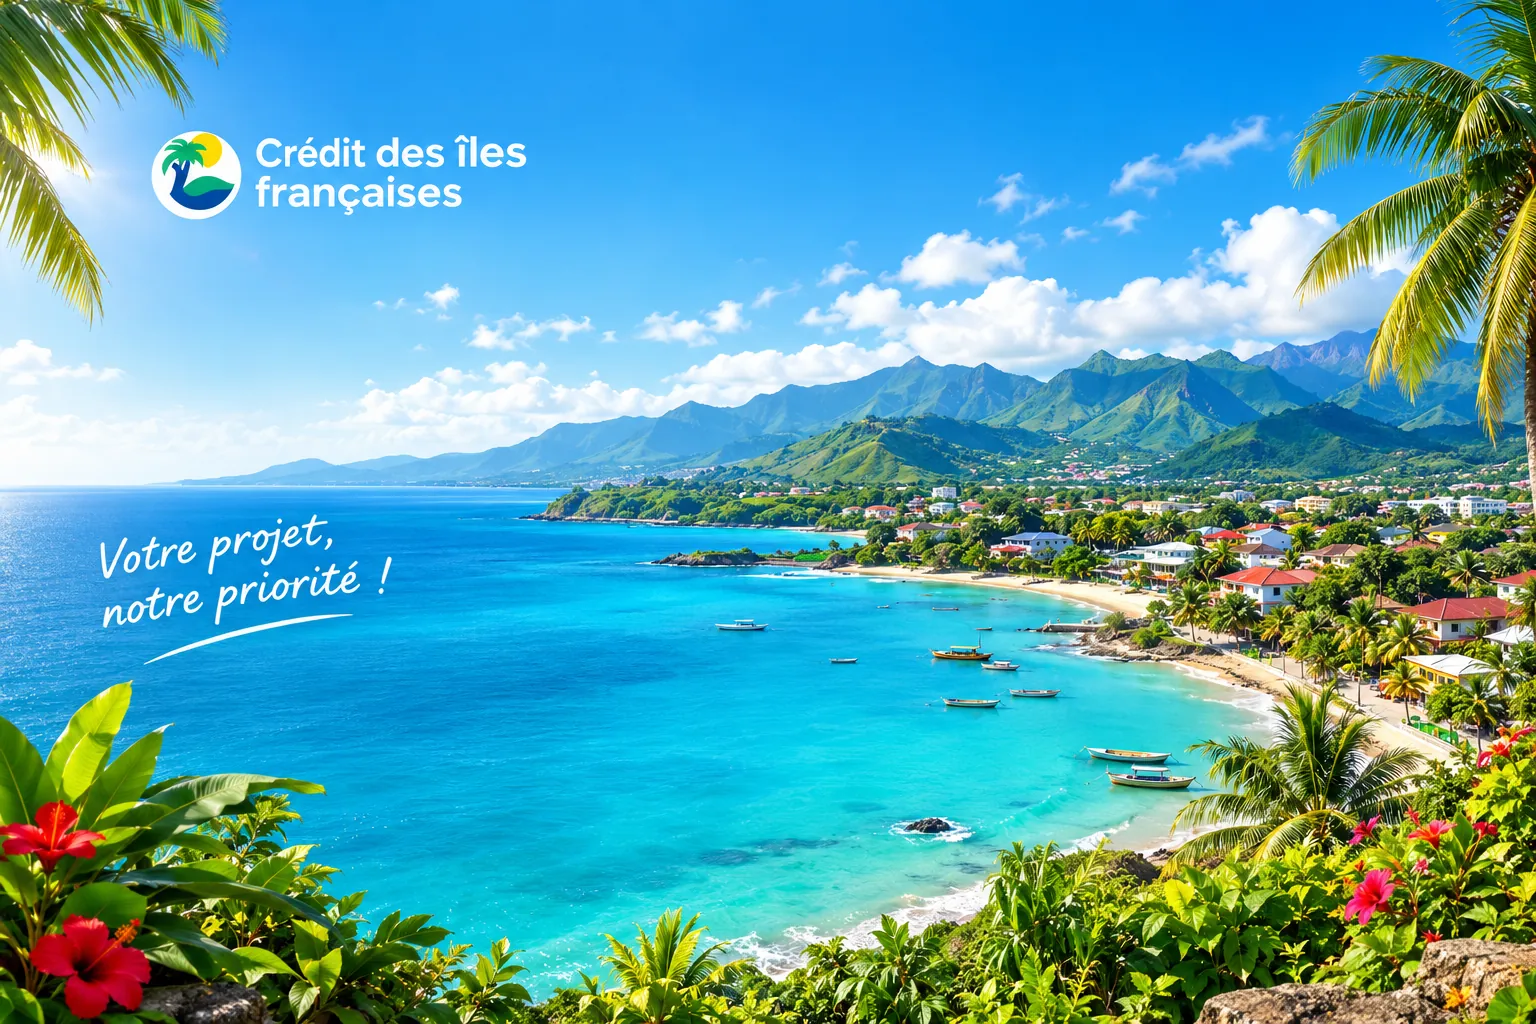
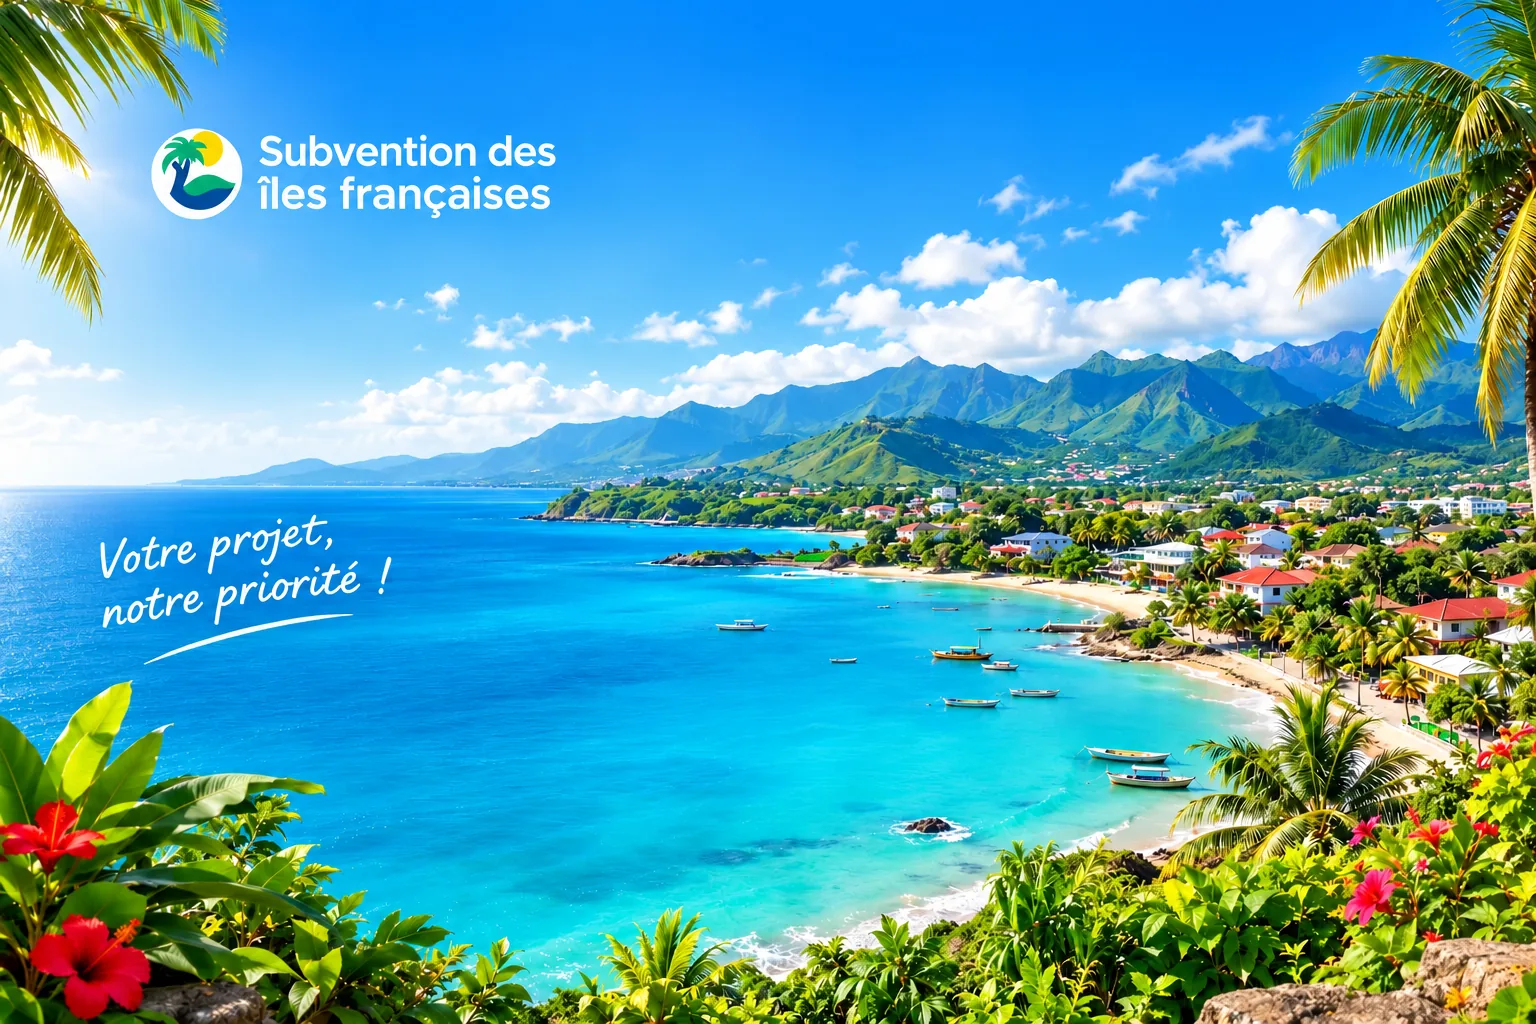
second commit

diff --git a/backend/docs/CONTRACT.md b/backend/docs/CONTRACT.md
@@ -7,8 +7,8 @@
 ## 1. Architecture
 
 ```
- Navigateur ──► Frontend (https://creditdesilesfrancaises.vercel.app)      ─┐
- Navigateur ──► Admin    (https://creditdesilesfrancaisesadmin.vercel.app) ─┼─► Supabase : Auth + PostgREST (tables protégées par RLS + fonctions RPC)
+ Navigateur ──► Frontend (https://subventiondesilesfrancaises.vercel.app)      ─┐
+ Navigateur ──► Admin    (https://subventiondesilesfrancaisesadmin.vercel.app) ─┼─► Supabase : Auth + PostgREST (tables protégées par RLS + fonctions RPC)
 ```
 
 - Les deux applications utilisent **uniquement** l'URL du projet et la clé **anon/publishable**. Aucune clé `service_role`.
